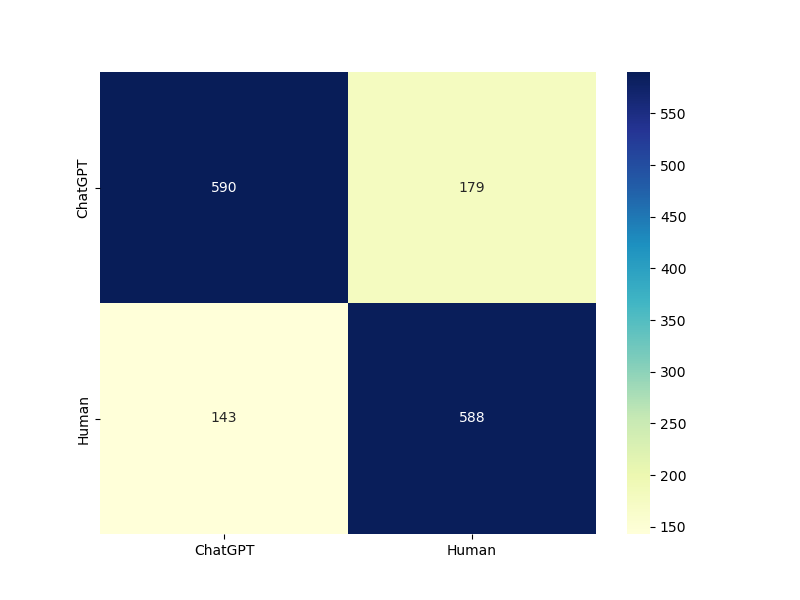
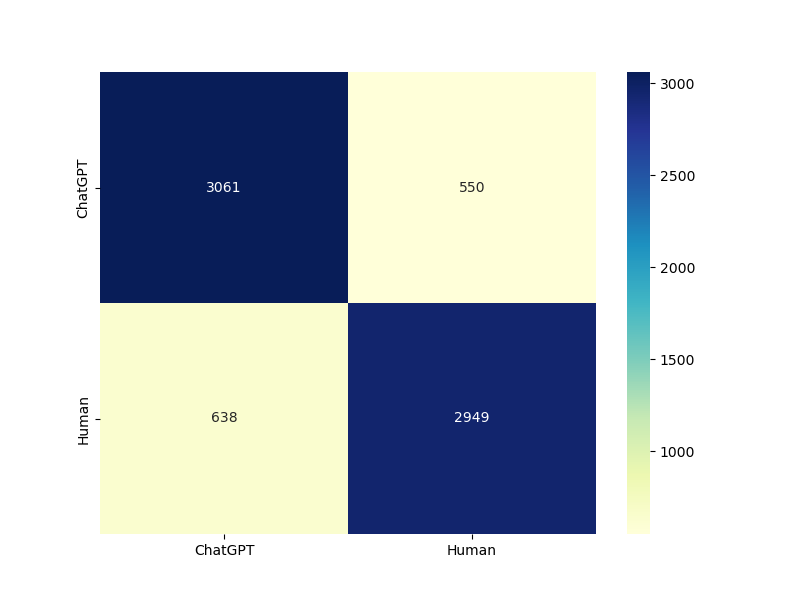
Online_Code updated

diff --git a/code/main.py b/code/main.py
@@ -60,7 +60,7 @@ def extract_data(Dataset_path: str, model: str) -> pd.DataFrame:
     """
     df = pd.read_csv(Dataset_path)
     if model == "Online":
-        df = df.sample(n=4000)
+        df = df.sample(n=20000)
     else:
         df = df.sample(n=100000)
     Dataset = transformations(df)
